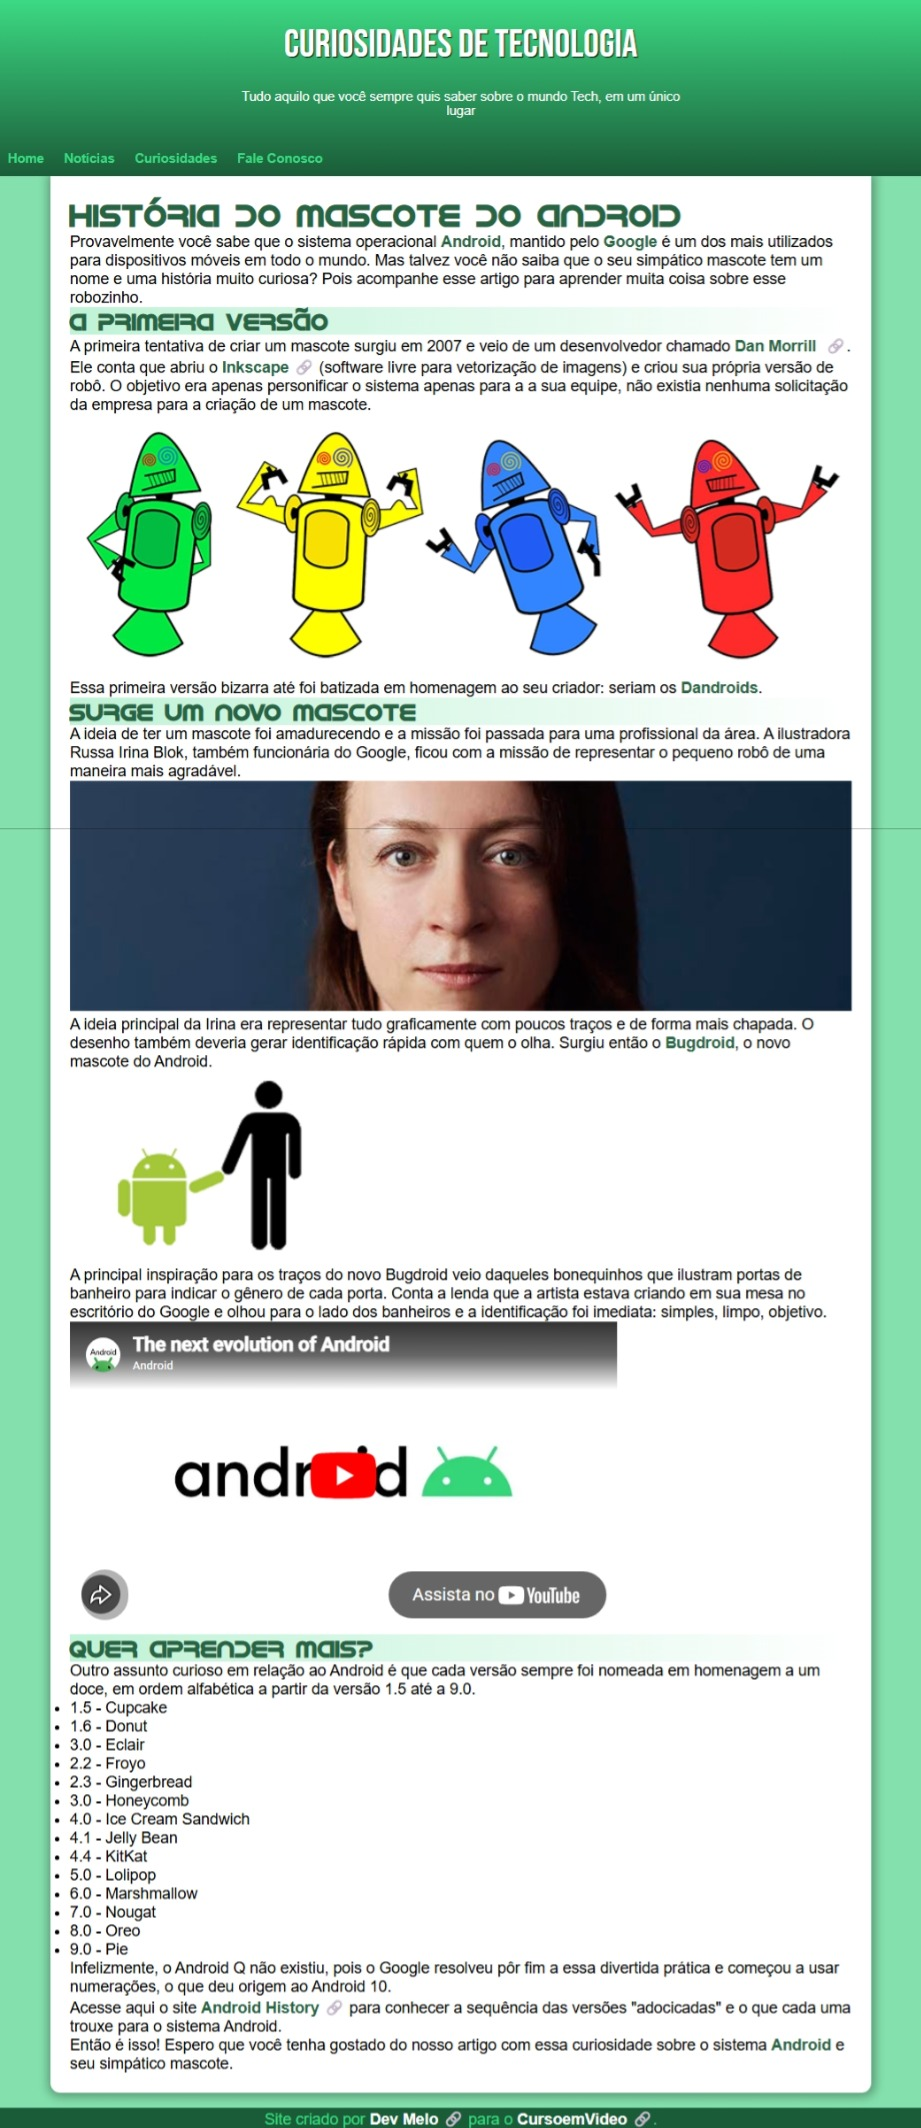
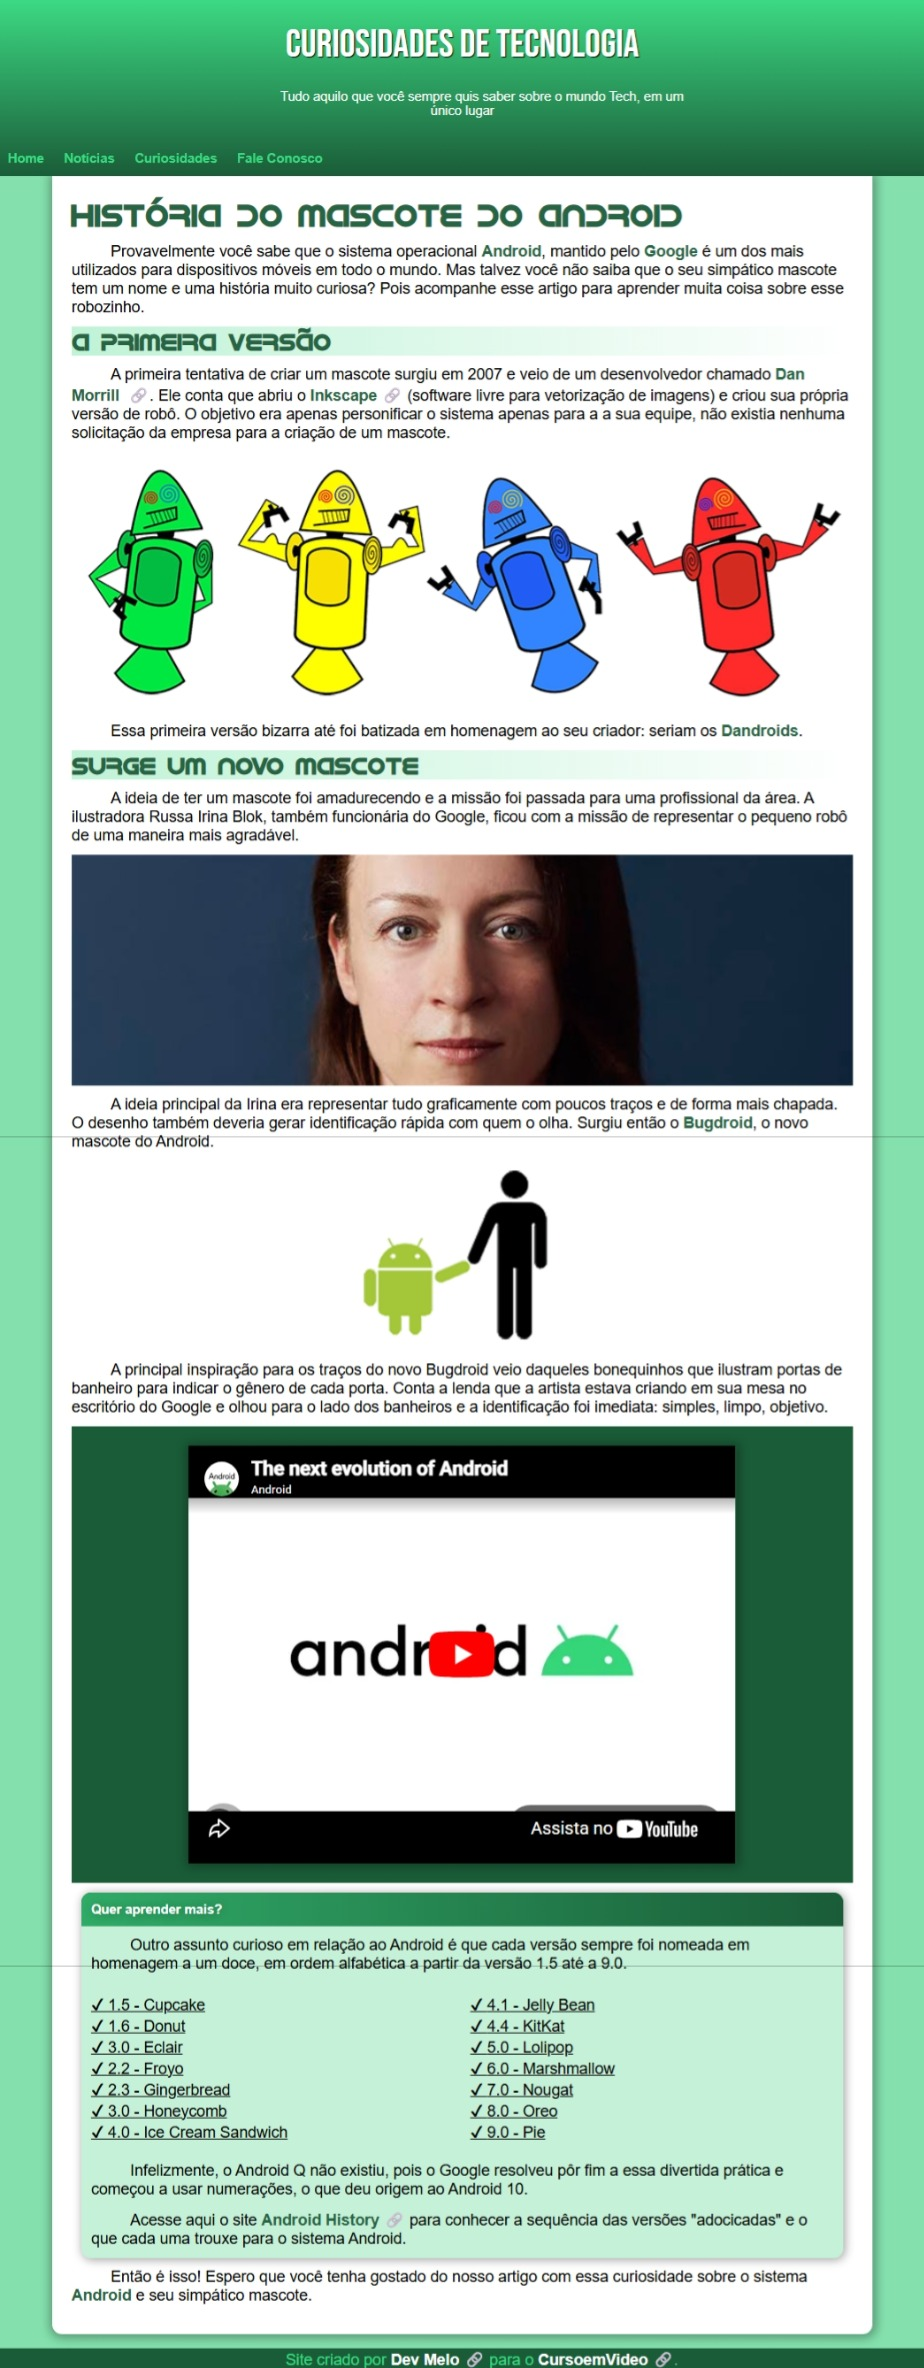
feat: finalize challenge 10

diff --git a/desafios/010/index.html b/desafios/010/index.html
@@ -55,7 +55,7 @@
                     <span class="destaque_simples">Bugdroid</span>, o novo mascote do Android.</p>
 
                 <picture>
-                    <img src="imagens/bugdroid.png" alt="">
+                    <img src="imagens/bugdroid.png" alt="Mascote Bugdroid oficial do Android">
                 </picture>
 
                 <p>A principal inspiração para os traços do novo Bugdroid veio daqueles bonequinhos que ilustram portas
@@ -63,30 +63,31 @@
                     mesa no escritório do Google e olhou para o lado dos banheiros e a identificação foi imediata:
                     simples, limpo, objetivo.</p>
 
-                <iframe width="560" height="315" src="https://www.youtube.com/embed/l2UDgpLz20M?si=w5_UvKM2FVZsegXW"
-                    title="YouTube video player" frameborder="0"
-                    allow="accelerometer; autoplay; clipboard-write; encrypted-media; gyroscope; picture-in-picture; web-share"
-                    referrerpolicy="strict-origin-when-cross-origin" allowfullscreen></iframe>
-
-                <article>
+                <div id="video">
+                    <iframe width="560" height="315" src="https://www.youtube.com/embed/l2UDgpLz20M?si=w5_UvKM2FVZsegXW"
+                        title="YouTube video player" frameborder="0"
+                        allow="accelerometer; autoplay; clipboard-write; encrypted-media; gyroscope; picture-in-picture; web-share"
+                        referrerpolicy="strict-origin-when-cross-origin" allowfullscreen></iframe>
+                </div> 
+                <article id="extra">
                     <h2>Quer aprender mais? </h2>
                     <p>Outro assunto curioso em relação ao Android é que cada versão sempre foi nomeada em homenagem a
                         um doce, em ordem alfabética a partir da versão 1.5 até a 9.0.</p>
                     <ul>
-                        <li>1.5 - Cupcake
-                        <li>1.6 - Donut
-                        <li>3.0 - Eclair
-                        <li>2.2 - Froyo
-                        <li>2.3 - Gingerbread
-                        <li>3.0 - Honeycomb
-                        <li>4.0 - Ice Cream Sandwich
-                        <li>4.1 - Jelly Bean
-                        <li>4.4 - KitKat
-                        <li>5.0 - Lolipop
-                        <li>6.0 - Marshmallow
-                        <li>7.0 - Nougat
-                        <li>8.0 - Oreo
-                        <li>9.0 - Pie
+                        <li>1.5 - Cupcake</li>
+                        <li>1.6 - Donut</li>
+                        <li>3.0 - Eclair</li>
+                        <li>2.2 - Froyo</li>
+                        <li>2.3 - Gingerbread</li>
+                        <li>3.0 - Honeycomb</li>
+                        <li>4.0 - Ice Cream Sandwich</li>
+                        <li>4.1 - Jelly Bean</li>
+                        <li>4.4 - KitKat</li>
+                        <li>5.0 - Lolipop</li>
+                        <li>6.0 - Marshmallow</li>
+                        <li>7.0 - Nougat</li>
+                        <li>8.0 - Oreo</li>
+                        <li>9.0 - Pie</li>
                     </ul>
 
                     <p>Infelizmente, o Android Q não existiu, pois o Google resolveu pôr fim a essa divertida prática e começou a usar numerações, o que deu origem ao Android 10.</p>
@@ -96,8 +97,9 @@
 
                 </article>
                 <p>Então é isso! Espero que você tenha gostado do nosso artigo com essa curiosidade sobre o sistema <span class="destaque_simples">Android</span> e seu simpático mascote.</p>
-            </article>
+            </article>               
         </section>
+        
 
     </main>
 

diff --git a/desafios/010/style.css b/desafios/010/style.css
@@ -86,23 +86,41 @@ nav>a:hover {
 
 }
 
-main{
+main {
     background-color: #84E1AD;
     padding: 0px 0px 15px 0px;
 }
 
-section{
+section {
     margin: auto;
-    width: 800px;
+    max-width: 800px; 
+    width: 100%;
     background-color: white;
     box-shadow: 1px 1px 10px 3px rgba(0, 0, 0, 0.307);
     border-radius: 0px 0px 10px 10px;
     padding: 20px;
 }
 
-article{
-    
+div#video {
+    padding: 20px;
+    margin: auto;
+    background-color: #1A5C38;
+    aspect-ratio: 16 / 9;
+
+
 }
+
+iframe {
+    display: block;
+    margin: auto;
+    width: 100%;
+    max-width: 560px;
+    height: 100%;
+    box-shadow: 1px 1px 10px 3px rgba(0, 0, 0, 0.307);
+
+}
+
+article {}
 
 h1 {
     font-family: 'idroid';
@@ -110,36 +128,87 @@ h1 {
 }
 
 h2 {
+    padding: 1px;
     font-family: 'idroid';
     color: #276443;
     background-image: linear-gradient(to right, #3cd98353, white);
 }
 
+picture>img {
+    display: block;
+    margin: auto;
+}
+
 a {
+
     color: #276443;
     text-decoration: none;
     font-weight: bold;
 }
 
-p > a::after  {
+p {
+    margin: 10px auto;
+    text-indent: 40px;
+}
+
+
+p>a::after {
     content: '\00A0\1F517';
 
 }
 
-.destaque_simples{
-    color: #276443; 
+.destaque_simples {
+    color: #276443;
     font-weight: bold;
 }
 
+article#extra{
+    overflow: hidden;
+    padding: 0px;
+    margin: 10px;
+    border-radius: 10px 10px 10px 10px;
+    box-shadow: 1px 1px 10px rgba(0, 0, 0, 0.378);
+    background-color: #84e1ac7a;
+}
+article#extra > h2 {
+    color: white;
+    background-color: #1A5C38;
+    background-image: linear-gradient(to left, #1A5C38, #30aa67);
+    font-family: Arial, Helvetica, sans-serif;
+    font-size: smaller;
+    padding: 10px;
+    text-shadow: 1px 1px 10px rgba(0, 0, 0, 0.307);
+}
+article#extra > p {
+    margin: 10px;
+}
+article#extra > ul {
+    padding: 10px;
+    column-count: 2;
+    list-style-position: inside;
+    list-style: none;
 
+}
+li{
+    text-decoration: underline;
+
+}
+li::before{
+    content: '\2714  ';
+}
 footer {
-    
+
     background-color: #1A5C38;
     text-align: center;
     color: #3CD983;
+    
 }
 
 footer>p>a {
     color: white;
     text-decoration: none;
+}
+
+footer>p{
+    margin: 0;
 }
